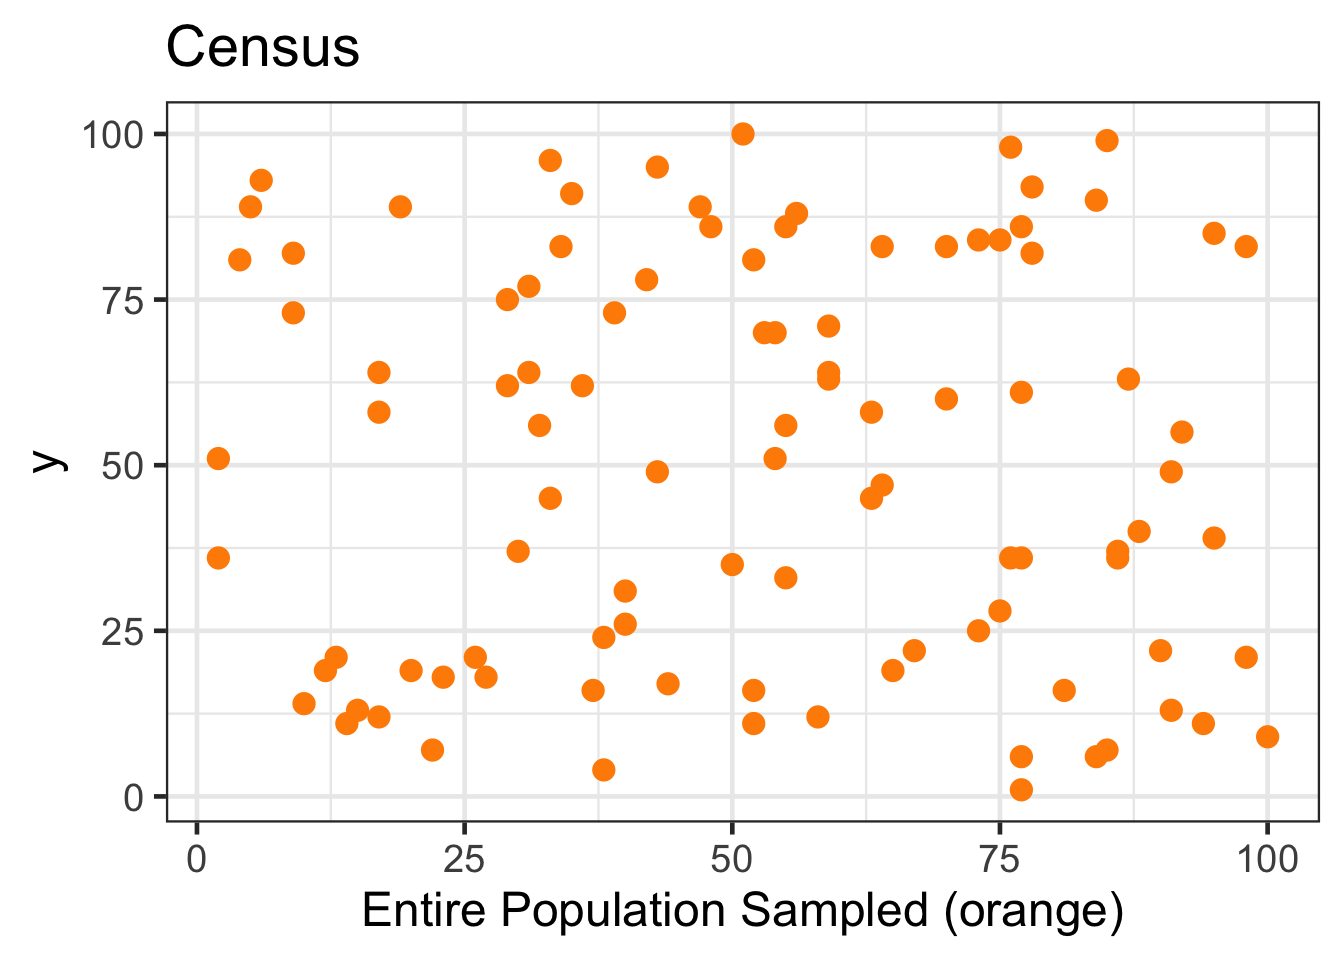
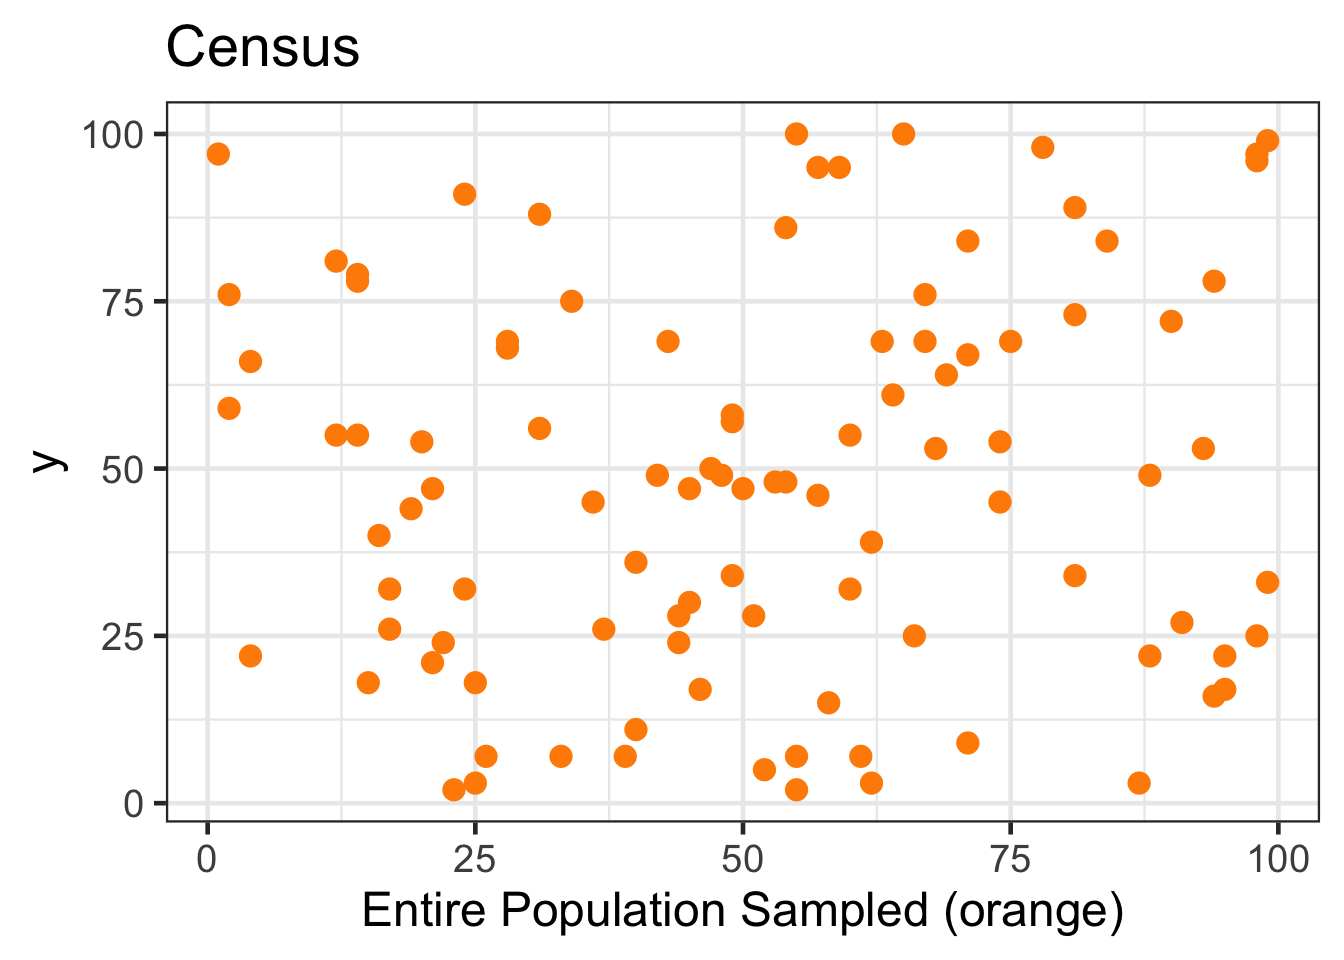
re-render Topic 2 with a11y updates

diff --git a/01_IntroToData.html b/01_IntroToData.html
@@ -138,7 +138,7 @@ window.Quarto = {
 
 </div>
 <script type="webr-1-contents">
[2 lines of base64/hex data omitted]
 </script>
 </div>
 </div>
@@ -148,7 +148,7 @@ eyJhdHRyIjp7Im91dHB1dCI6ZmFsc2UsImV2YWwiOnRydWUsImVkaXQiOmZhbHNlLCJwZXJzaXN0Ijp0
 
 </div>
 <script type="webr-2-contents">
[2 lines of base64/hex data omitted]
 </script>
 </div>
 </div>
@@ -172,7 +172,7 @@ eyJhdHRyIjp7ImVkaXQiOmZhbHNlLCJvdXRwdXQiOmZhbHNlLCJldmFsIjp0cnVlLCJkZWZpbmUiOlsi
 
 </div>
 <script type="webr-3-contents">
[2 lines of base64/hex data omitted]
 </script>
 </div>
 </div>
@@ -253,7 +253,7 @@ About
 <tbody>
 <tr class="odd">
 <td style="text-align: right;">7129300520</td>
-<td style="text-align: right;">4</td>
+<td style="text-align: right;">9</td>
 <td style="text-align: right;">221900</td>
 <td style="text-align: right;">1180</td>
 <td style="text-align: right;">5650</td>
@@ -262,7 +262,7 @@ About
 </tr>
 <tr class="even">
 <td style="text-align: right;">6414100192</td>
-<td style="text-align: right;">1</td>
+<td style="text-align: right;">12</td>
 <td style="text-align: right;">538000</td>
 <td style="text-align: right;">2570</td>
 <td style="text-align: right;">7242</td>
@@ -271,7 +271,7 @@ About
 </tr>
 <tr class="odd">
 <td style="text-align: right;">5631500400</td>
-<td style="text-align: right;">8</td>
+<td style="text-align: right;">11</td>
 <td style="text-align: right;">180000</td>
 <td style="text-align: right;">770</td>
 <td style="text-align: right;">10000</td>
@@ -280,25 +280,25 @@ About
 </tr>
 <tr class="even">
 <td style="text-align: right;">2487200875</td>
-<td style="text-align: right;">1</td>
+<td style="text-align: right;">7</td>
 <td style="text-align: right;">604000</td>
 <td style="text-align: right;">1960</td>
 <td style="text-align: right;">5000</td>
 <td style="text-align: right;">0</td>
-<td style="text-align: left;">shingles</td>
+<td style="text-align: left;">vinyl siding</td>
 </tr>
 <tr class="odd">
 <td style="text-align: right;">1954400510</td>
-<td style="text-align: right;">2</td>
+<td style="text-align: right;">1</td>
 <td style="text-align: right;">510000</td>
 <td style="text-align: right;">1680</td>
 <td style="text-align: right;">8080</td>
 <td style="text-align: right;">0</td>
-<td style="text-align: left;">vinyl siding</td>
+<td style="text-align: left;">shingles</td>
 </tr>
 <tr class="even">
 <td style="text-align: right;">7237550310</td>
-<td style="text-align: right;">4</td>
+<td style="text-align: right;">2</td>
 <td style="text-align: right;">1225000</td>
 <td style="text-align: right;">5420</td>
 <td style="text-align: right;">101930</td>
@@ -325,16 +325,16 @@ About
 </tr>
 <tr class="odd">
 <td style="text-align: right;">2414600126</td>
-<td style="text-align: right;">1</td>
+<td style="text-align: right;">6</td>
 <td style="text-align: right;">229500</td>
 <td style="text-align: right;">1780</td>
 <td style="text-align: right;">7470</td>
 <td style="text-align: right;">0</td>
-<td style="text-align: left;">brick</td>
+<td style="text-align: left;">vinyl siding</td>
 </tr>
 <tr class="even">
 <td style="text-align: right;">3793500160</td>
-<td style="text-align: right;">10</td>
+<td style="text-align: right;">12</td>
 <td style="text-align: right;">323000</td>
 <td style="text-align: right;">1890</td>
 <td style="text-align: right;">6560</td>
@@ -1076,10 +1076,10 @@ Looking Ahead
 <p>[1] House Sales in King County, USA (2016). Kaggle. Retrieved from <a href="https://www.kaggle.com/datasets/harlfoxem/housesalesprediction">Kaggle House Sales Dataset</a>.</p>
 <p>[2] Wickham, H. (2016). ggplot2: Elegant graphics for data analysis [Diamonds Dataset]. Springer-Verlag New York. https://ggplot2.tidyverse.org/</p>
 <script type="webr-data">
[2 lines of base64/hex data omitted]
 </script>
 <script type="ojs-module-contents">
[2 lines of base64/hex data omitted]
 </script>
 <div id="exercise-loading-indicator" class="exercise-loading-indicator d-none d-flex align-items-center gap-2">
 <div id="exercise-loading-status" class="d-flex gap-2">